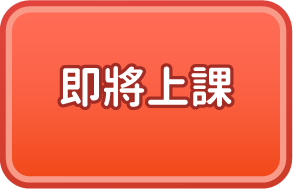
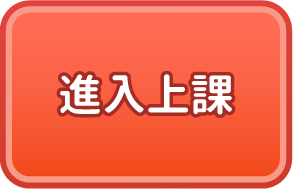
調整按鈕文字及新增審核未通過按鈕

Changed region(s): [[0.1843, 0.3175, 0.8294, 0.6349]]

diff --git a/src/sass/style.sass b/src/sass/style.sass
@@ -64,6 +64,11 @@
             &:hover
                 img
                     transform: scale(1.05)
+        .text-get-number
+            text-align: center
+            color: #247C0A
+            font-weight: 700
+            letter-spacing: 1px
     .row-class
         top: 150px
         left: 50%
@@ -159,11 +164,7 @@
                 margin: 10px 0px
         .class-gift
             padding: 0px 20px
-            .gift-title
-                padding-bottom: 5px
-                color: #000000
-                font-size: 16px
-                font-weight: 500
+            padding-top: 16px
             .gift-pic
                 width: 130px
                 position: relative

diff --git a/src/js/modules/for-ui/data-courses.js b/src/js/modules/for-ui/data-courses.js
@@ -57,6 +57,15 @@ dataCourses = Object.assign(dataCourses, {
     tool: '天元突破',
     classBtnCss: 'class-btn-add',
     classBtnImg: './img/btn-add.png'
+  },
+  7: {
+    date: '2019年7月1日',
+    time: '14:00-15:00',
+    userPlan: '國一上數學',
+    unit: '通貫古今--鄭伯克段于鄢',
+    tool: '天元突破',
+    classBtnCss: 'class-btn-check-error',
+    classBtnImg: './img/btn-check-error.png'
   }
 })
 

diff --git a/src/js/modules/main.js b/src/js/modules/main.js
@@ -1,5 +1,5 @@
-import courses from './courses'
-import bonuses from './bonuses'
+import courses from './for-ui/ui-courses'
+import bonuses from './for-ui/ui-bonuses'
 import util from './util/util'
 import dayjs from 'dayjs'
 import 'dayjs/locale/zh-tw'
